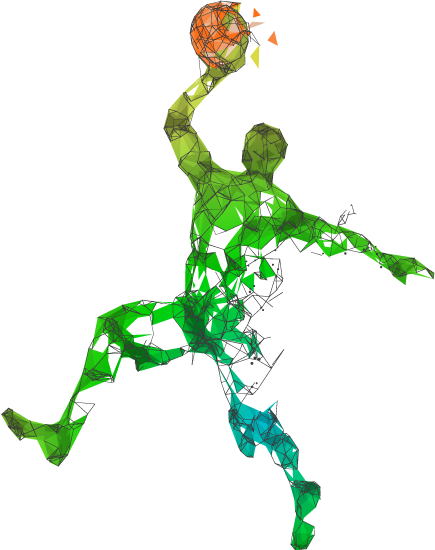
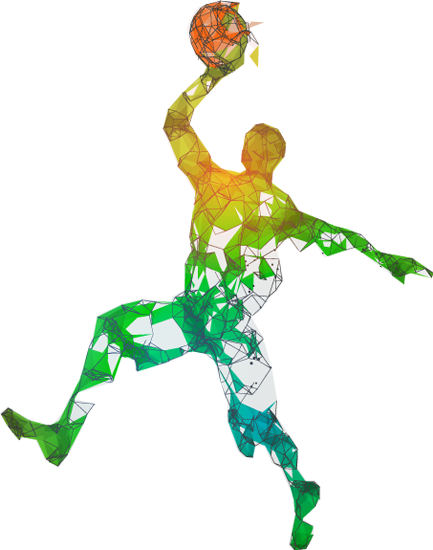
new images and formatting

diff --git a/sunday.html b/sunday.html
@@ -122,7 +122,7 @@ h1.smoking {
 	text-transform: uppercase;
 	margin: 5px 0;
 	font-size: 25px;
-	color: red;
+	color: #008f8d;
 }
 .sports-wrapper {
 	display: flex;
@@ -130,19 +130,16 @@ h1.smoking {
 	justify-content: center;
 }
 .sport.one {
-	margin: 125px -95px -35px 0;
+	margin: 55px -95px -35px 0;
 }
 .sport.two {
-	margin: -20px 0 0px 0px;
+	
 }
 .sport.three {
-	margin: 215px 0 0 -135px;
+	margin: 30px 0 0 -20px;
 }
 .sport.four {
-	margin: 115px 0 0px -30px;
-}
-.sport.five {
-	margin: 220px 0 0px 25px;
+	margin: 165px 0 0px 35px;
 }
 .item-wrapper {
 	display: flex;
@@ -372,10 +369,10 @@ height="0" width="0" style="display:none;visibility:hidden"></iframe>
     </div>
     <div class="sports-wrapper">
       <div class="sport one"><img class="" src="basketball.png" alt="Basketball"></div>
-      <div class="sport two"><img class="" src="voleyball.png" alt="Volleyball"></div>
-      <div class="sport three"><img class="" src="football.png" alt="Football"></div>
-      <div class="sport four"><img class="" src="soccer.png" alt="American Soccer"></div>
-      <div class="sport five"><img class="" src="golf.png" alt="Golf"><!-- really a sport?--></div>
+      
+      <div class="sport two"><img class="" src="volleyball-football.png" alt="Volleyball & Football"></div>
+      <div class="sport three"><img class="" src="soccer.png" alt="American Soccer"></div>
+      <div class="sport four"><img class="" src="golf.png" alt="Golf"><!-- really a sport?--></div>
     </div>
   </div>
   <!-- InstanceEndEditable --> </div>
